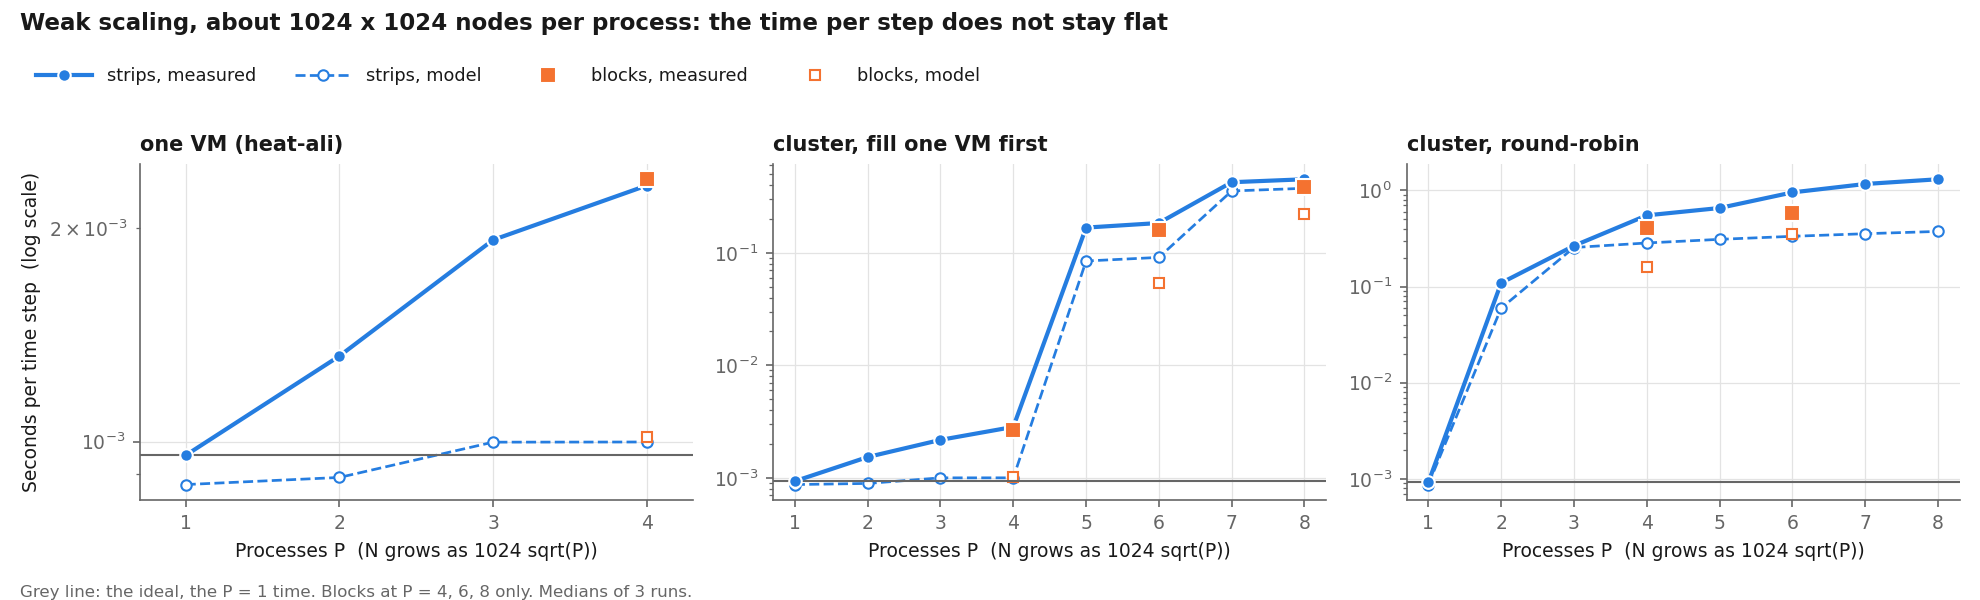
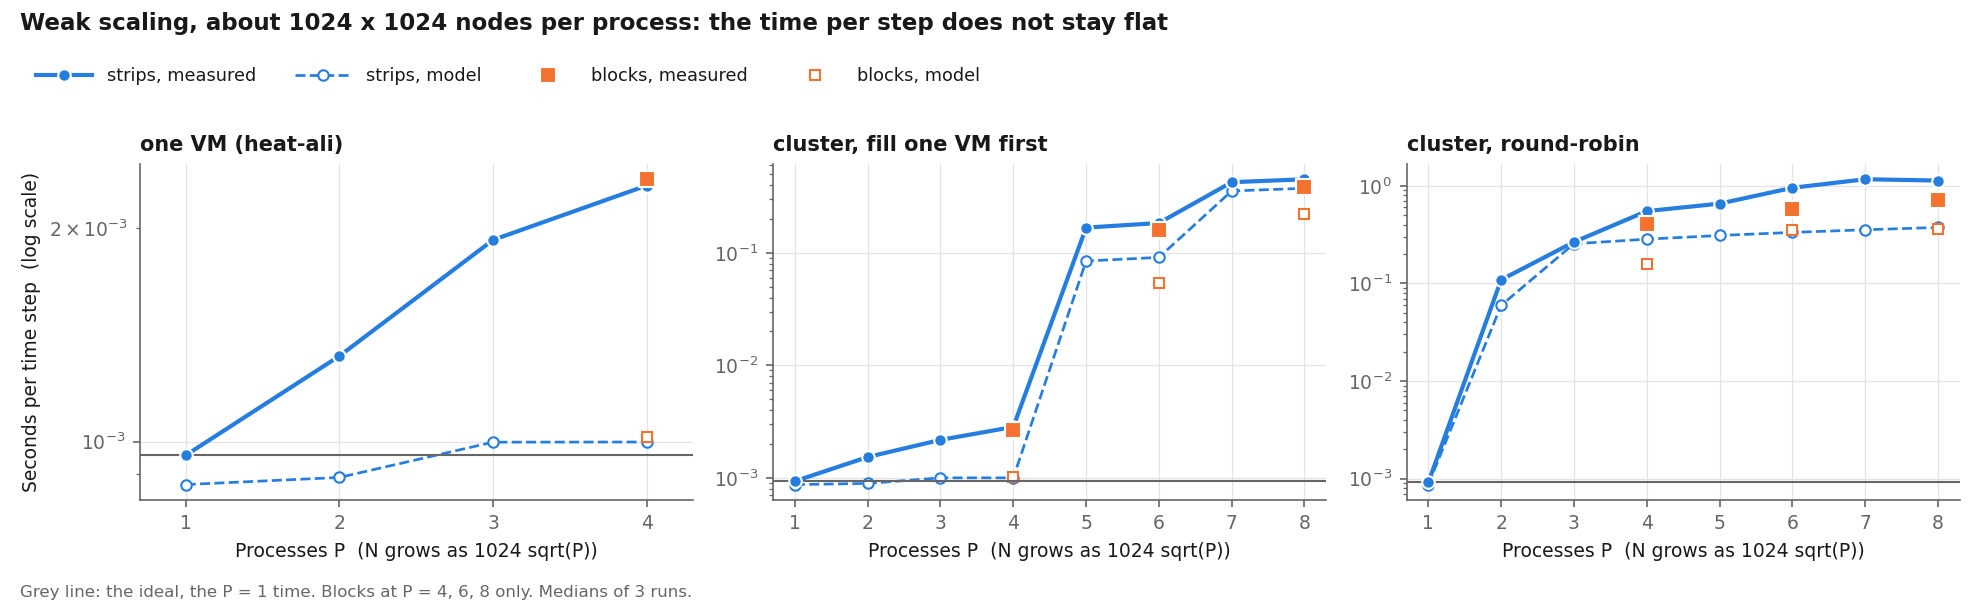
Part 4: weak scaling node P=8 rerun, demo heat maps, Ctrl+C fix in run scripts

Changed region(s): [[0.6778, 0.27, 0.9859, 0.54], [0.7086, 0.63, 0.9859, 0.66], [0.6778, 0.78, 0.7086, 0.81]]

diff --git a/results/model_summary.md b/results/model_summary.md
@@ -216,6 +216,7 @@ About 1024 x 1024 nodes per process, N = round(1024 sqrt(P)). Ideal: the time pe
 | strips | 5 | 2290 | 656 | 652 to 727 | 717 | 100% | 310 |
 | strips | 6 | 2508 | 953 | 870 to 995 | 1.04e+03 | 100% | 333 |
 | strips | 7 | 2709 | 1.17e+03 | 1.14e+03 to 1.17e+03 | 1.27e+03 | 100% | 354 |
-| strips | 8 | 2896 | 1.31e+03 | 1.31e+03 to 1.31e+03 | 1.43e+03 | 100% | 374 |
+| strips | 8 | 2896 | 1.13e+03 | 1.13e+03 to 1.31e+03 | 1.24e+03 | 100% | 374 |
 | blocks | 4 | 2048 | 405 | 372 to 405 | 443 | 100% | 160 |
 | blocks | 6 | 2508 | 583 | 578 to 655 | 637 | 100% | 352 |
+| blocks | 8 | 2896 | 721 | 720 to 753 | 788 | 100% | 361 |
